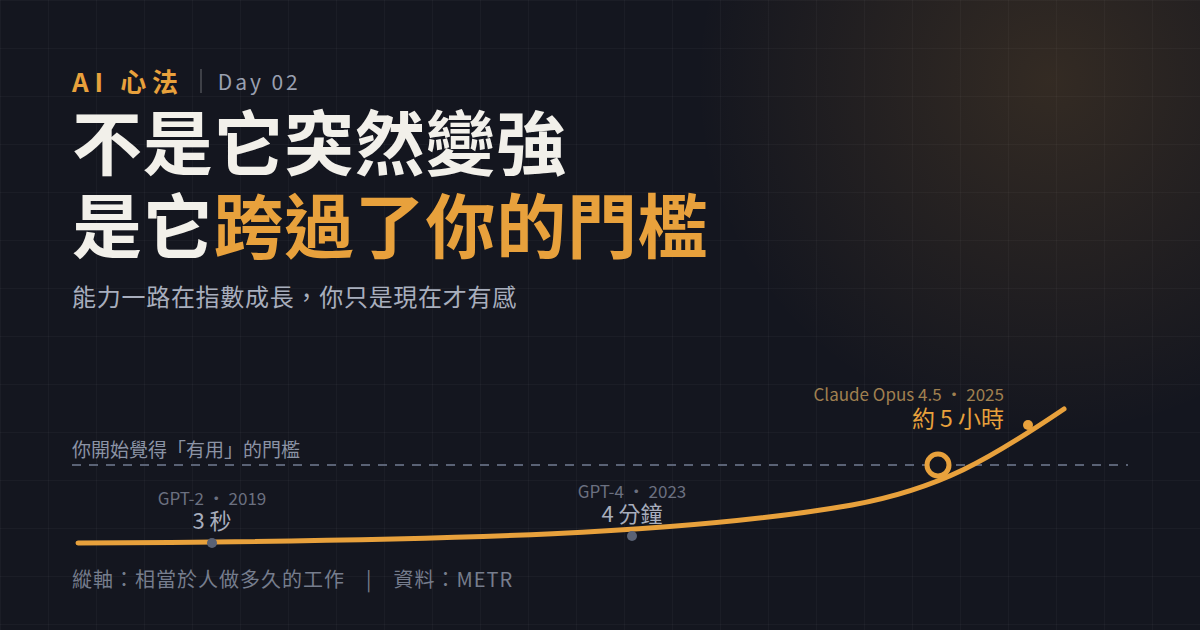
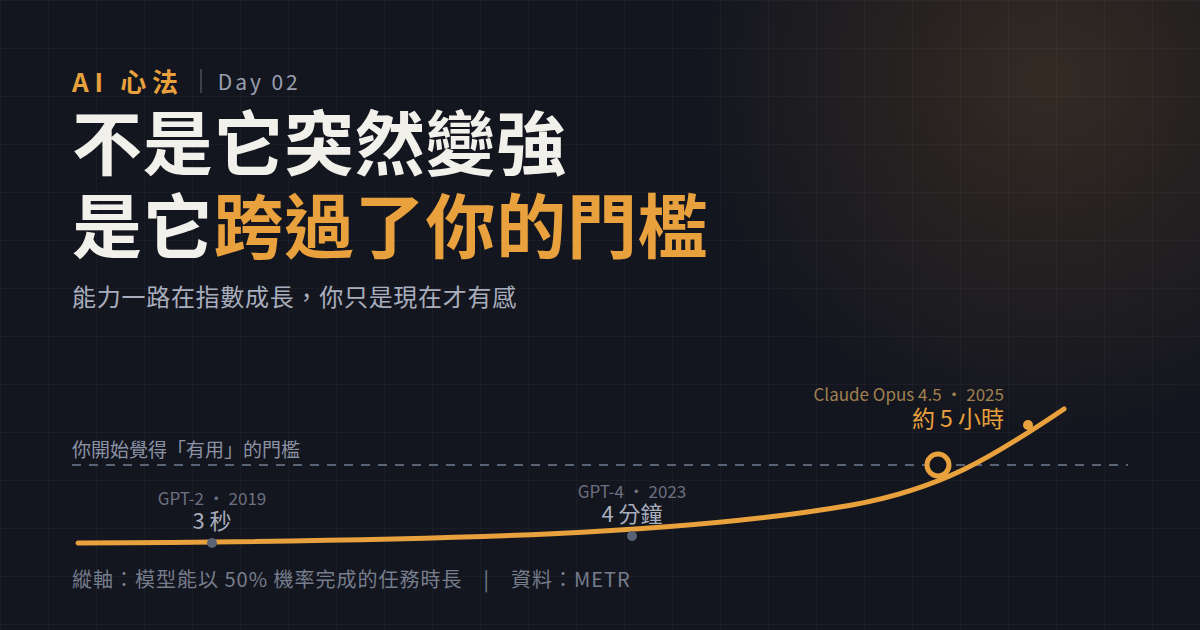
Day 02 封面縱軸改用完整指標名，publish 版依 drafts 重建

Changed region(s): [[0.0925, 0.9048, 0.5242, 0.9349]]

diff --git a/05-notes/ironman/assets/cover-day02.html b/05-notes/ironman/assets/cover-day02.html
@@ -52,5 +52,5 @@ text{font-family:"Noto Sans CJK TC",sans-serif}
     <text x="932" y="74" fill="#e8a13c" font-size="23" text-anchor="end">約 5 小時</text>
   </svg>
   </div>
-  <div class="foot">縱軸：相當於人做多久的工作　|　資料：METR</div>
+  <div class="foot">縱軸：模型能以 50% 機率完成的任務時長　|　資料：METR</div>
 </div></body></html>
